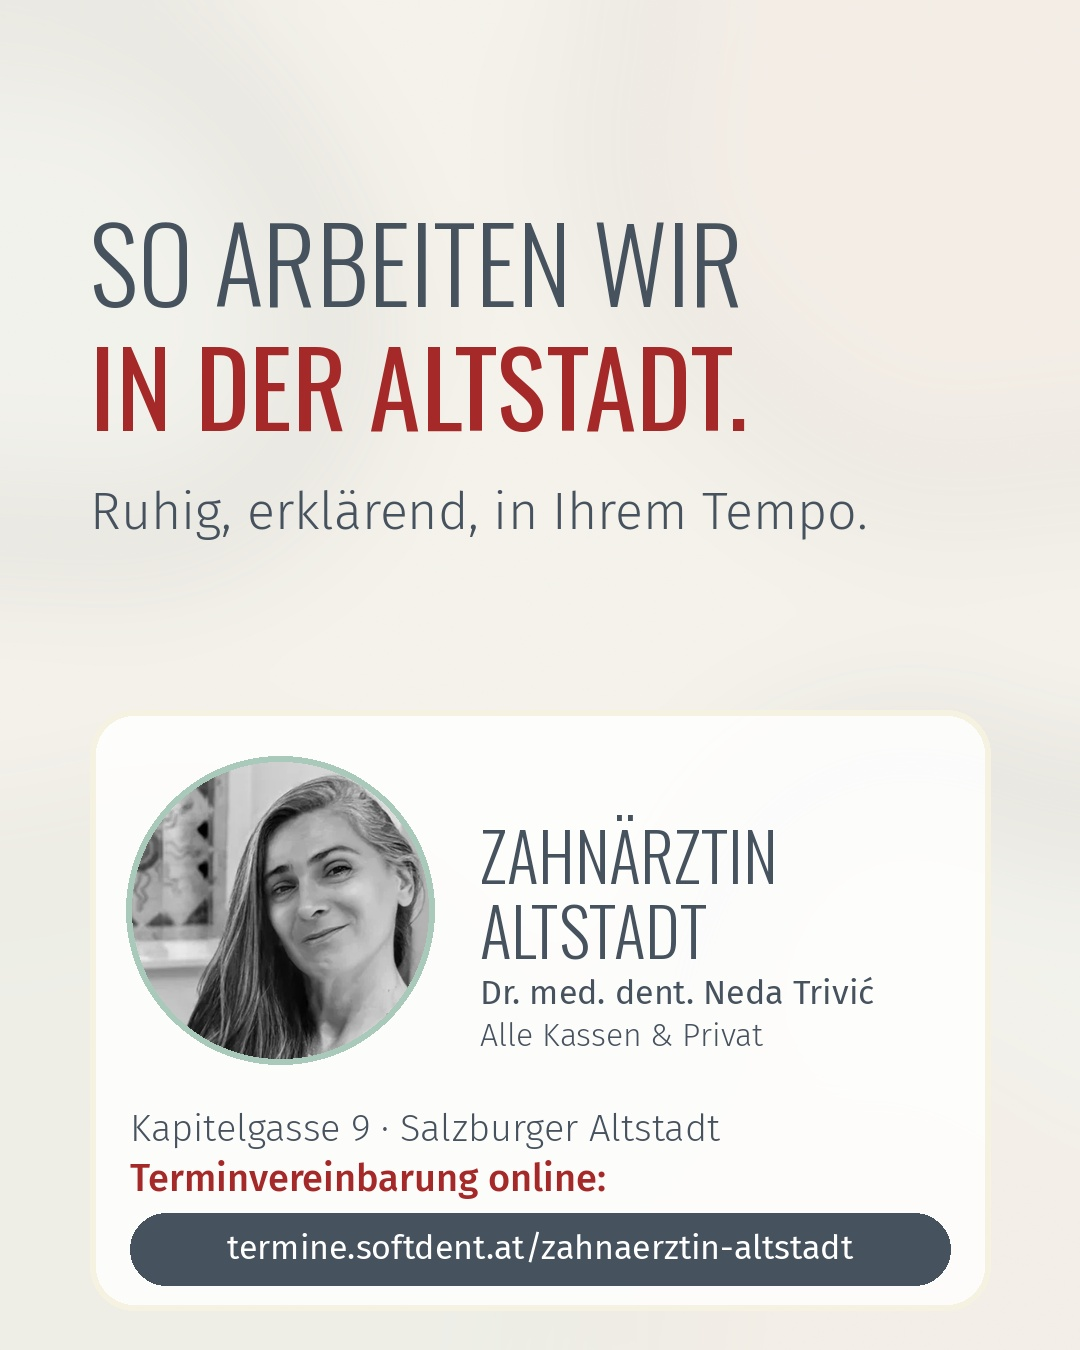
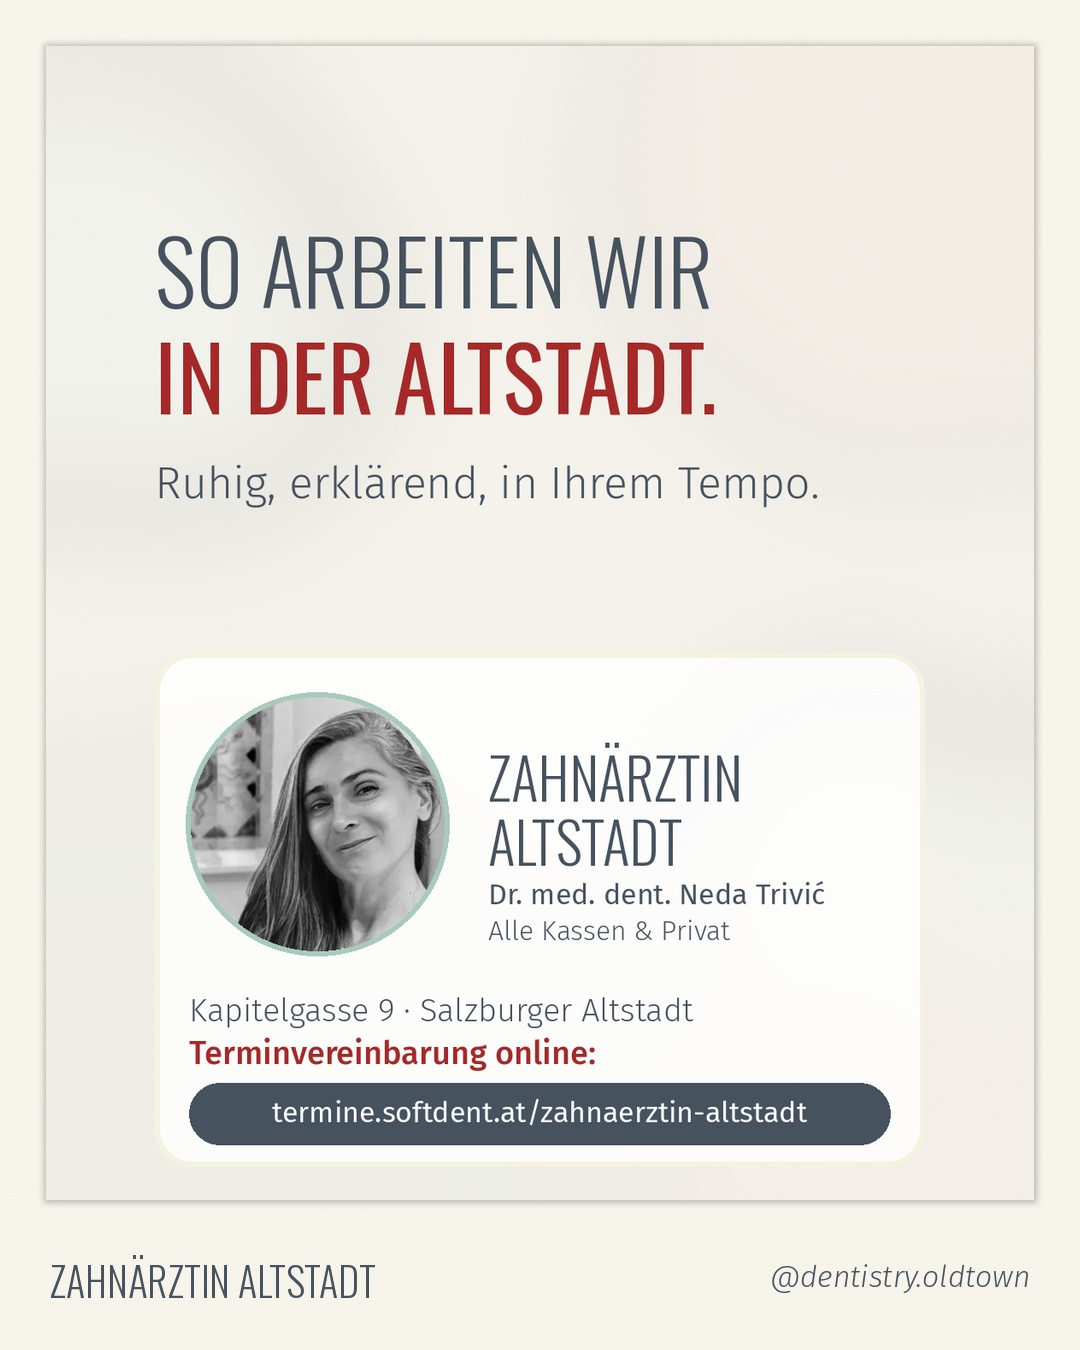
02.12.: Abschlussfolie gerahmt
Claude-Session: https://claude.ai/code/session_012SPZoo3349FxBHtRPxeMWn

diff --git a/template/make_media.py b/template/make_media.py
@@ -261,12 +261,31 @@ class Builder:
         d.text((W - bx - 4 - d.textlength(hd, font=hf), by + 8), hd, font=hf, fill=SLATE)
         return img
 
+    def framed(s, img):
+        """Put any finished slide into the same analog paper frame as the photo series."""
+        H = s.H; bx, bt, bb = 46, 46, 150; pw, ph = W - 2 * bx, H - bt - bb
+        k = ph / H; sm = img.resize((int(W * k), ph), Image.LANCZOS)
+        inner = s.bg.resize((pw, ph), Image.LANCZOS); inner.alpha_composite(sm.convert("RGBA"), ((pw - sm.width) // 2, 0))
+        paper = Image.new("RGB", (W, H), (250, 247, 238)); pn = Image.effect_noise((W, H), 10).convert("L")
+        out = Image.blend(paper, Image.merge("RGB", [pn] * 3), 0.025).convert("RGBA")
+        sh = Image.new("RGBA", (W, H), (0, 0, 0, 0))
+        ImageDraw.Draw(sh).rectangle([bx - 2, bt - 2, bx + pw + 2, bt + ph + 2], fill=(0, 0, 0, 60))
+        out.alpha_composite(sh.filter(ImageFilter.GaussianBlur(3))); out.alpha_composite(inner, (bx, bt))
+        d = ImageDraw.Draw(out); by = bt + ph + 50
+        d.text((bx + 4, by), "ZAHNÄRZTIN ALTSTADT", font=oswald(40, 300), fill=SLATE)
+        hf = fira(30, "LightItalic"); hd = "@dentistry.oldtown"
+        d.text((W - bx - 4 - d.textlength(hd, font=hf), by + 8), hd, font=hf, fill=SLATE)
+        return out
+
     def scenes(s):
         durs = {"photo": 3.4, "hook": 3.2, "statement": 3.8, "tips": 5.4, "close": 4.2}
         out = []
         for sc in s.spec["scenes"]:
             fn = getattr(s, sc["type"])
-            out.append(((lambda t, fn=fn, sc=sc: fn(t, sc)), sc.get("duration", durs[sc["type"]])))
+            if sc.get("frame") and sc["type"] != "photo":
+                out.append(((lambda t, fn=fn, sc=sc: s.framed(fn(t, sc))), sc.get("duration", durs[sc["type"]])))
+            else:
+                out.append(((lambda t, fn=fn, sc=sc: fn(t, sc)), sc.get("duration", durs[sc["type"]])))
         return out
 
 

diff --git a/AGENT.md b/AGENT.md
@@ -70,6 +70,7 @@ Idea from Neda (inspired by an orthodontist's "kinda chic to …" carousel – a
 - Lines are from the patient's perspective (never self-praise). Examples Neda liked: "wenn sich jemand Zeit nimmt für noch eine Frage." · "wenn erst erklärt und dann behandelt wird." · "wenn Angst ernst genommen wird." · "wenn man in drei Sprachen zuhört." · "wenn Zahnfleisch genauso wichtig ist wie Zähne." Write new lines each month; no promises.
 - Photos: only Neda, team, hands, instruments, rooms, details. NEVER patients (WR-ÖZÄK). Never reuse the same photo two months in a row.
 - Neda still has to take the photos. If `photos/praxis/` has fewer than 5 photos, do NOT build the series: use a normal „Wussten Sie schon?“ post and add one line to the approval email reminding her to send practice photos.
+- Any carousel scene accepts `"frame": true` (same paper frame); in the series the closing `close` slide is always framed.
 - Scene type `photo` exists: `{"type":"photo","photo":"photos/praxis/<file>.jpg","text":"wenn …","focus":[x,y],"shade":120}` (framed analog print, text on photo; "Ziemlich sympathisch," added automatically; optional "dy", "shade", "size"). Last slide: `close`. Neda's approved look: `drafts/_demo_sympathisch/` (5 photos + close).
 - Episode 1 (02.12.2026) is done and scheduled and used all five current photos (wartezimmer, globus, voegel, blumen_1, blumen_2). From episode 2 (January) ask Neda (in the approval email) for new photos so the series does not look repetitive.
 
